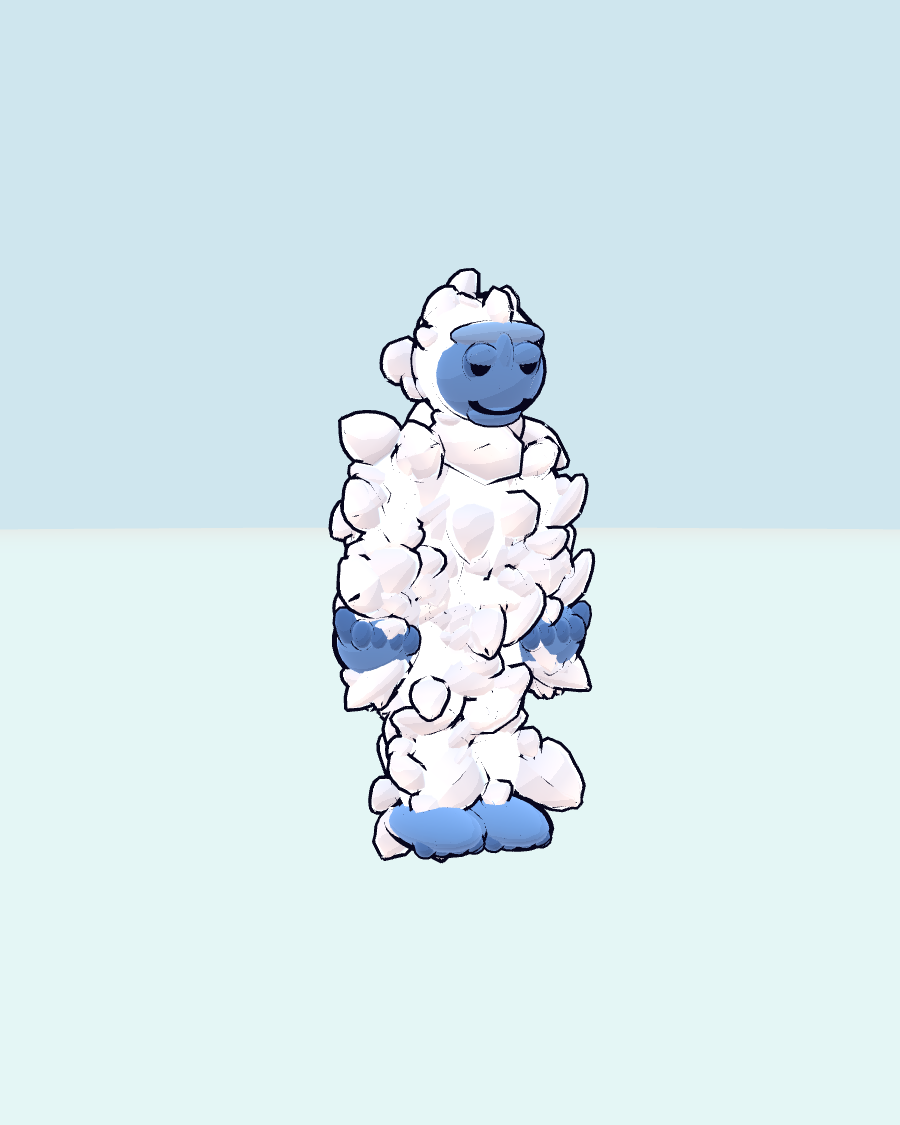
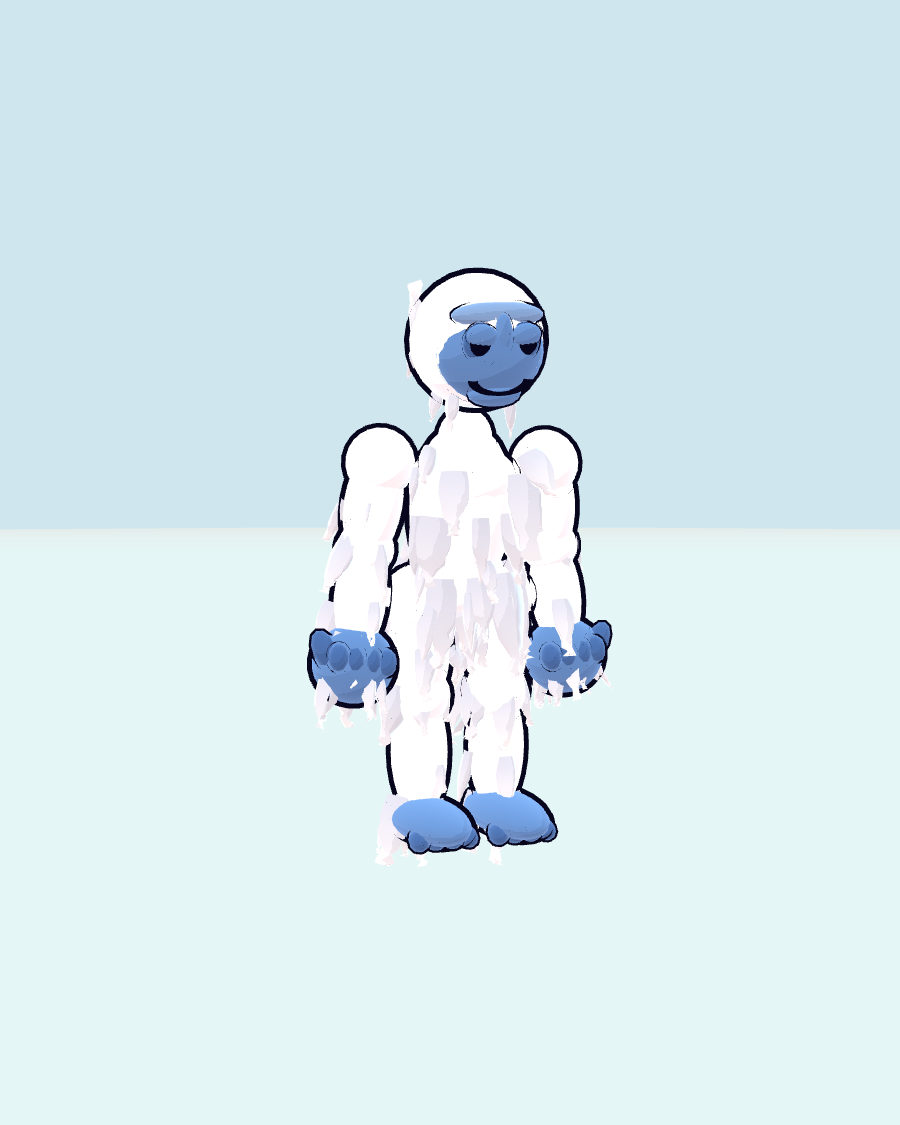
Lofi: thin drooping fur locks over one continuous shell, no per-tuft outlines
- every fur lock is now un-outlined: ink lives on the body shell only, so fur
  reads as hair rather than gravel
- continuous shell (chest, neck, shoulder/elbow/knee joints) with ~80 fringe
  locks: hip skirt, chest mane, shoulder ruff, wrist/ankle cuffs, head crest
- arms lengthened to knee height and stood clear of the torso; legs and feet
  separated; head larger and lifted on a visible neck
- shell tinted off-white so white locks read on top of it; greys pushed into
  undersides and creases only

Changed region(s): [[0.3422, 0.2178, 0.6844, 0.7778]]

diff --git a/src/char_lofi.js b/src/char_lofi.js
@@ -9,24 +9,23 @@ const DEFS = { idle: { loop: true }, run: { loop: true }, dash: { loop: true }, 
 const KF = (...a) => a;
 const SKIN = 0x6c9bdc, SKIN_D = 0x4d76ba, SKIN_L = 0x8fb6ea, FUR_SHADE = 0xc4c9dc, FUR_MID = 0xe0e4f0;
 
-// ---- soft shaggy tuft geometry -------------------------------------------------
-// rounded teardrop: fat rounded base, bulging belly, blunt tapered tip. +Y is the length axis.
-function tuftGeo(len, rad, flat, seed) {
-  const R = rng(seed), N = 7, pts = [];
+// ---- shaggy fur locks ------------------------------------------------
+// a lock: wide at the root, tapering to a fine point, drooping as it falls. +Y is the length axis.
+function lockGeo(len, rad, flat, seed) {
+  const R = rng(seed), N = 8, pts = [];
   for (let i = 0; i <= N; i++) {
     const s = i / N;
-    let r = Math.pow(Math.sin(Math.PI * Math.pow(s, .62)), .62) * (1 - .18 * s);
-    if (s > .8) { const u = (s - .8) / .2; r *= Math.sqrt(Math.max(0, 1 - u * u)); }
-    pts.push(new THREE.Vector2(Math.max(r * rad, .0006), s * len));
+    const r = Math.pow(1 - s, .72) * (.74 + .36 * Math.sin(Math.PI * Math.min(1, s * 1.5)));
+    pts.push(new THREE.Vector2(Math.max(r * rad, .0004), s * len));
   }
-  const g = new THREE.LatheGeometry(pts, 7);
+  const g = new THREE.LatheGeometry(pts, 6);
   g.scale(1, 1, flat);
-  const p = g.attributes.position, c = new Float32Array(p.count * 3), col = new THREE.Color(), L = len;
+  const p = g.attributes.position, c = new Float32Array(p.count * 3), col = new THREE.Color();
   for (let i = 0; i < p.count; i++) {
-    const t = clamp(p.getY(i) / L);
-    p.setY(i, p.getY(i) - t * t * L * .18);
-    p.setX(i, p.getX(i) + t * t * L * (R() - .5) * .1);
-    col.setHex(FUR_SHADE).lerp(new THREE.Color(FUR_MID), smooth(0, .45, t)).lerp(new THREE.Color(0xffffff), smooth(.5, .92, t));
+    const t = clamp(p.getY(i) / len);
+    p.setY(i, p.getY(i) - t * t * len * .32);
+    p.setX(i, p.getX(i) + t * t * len * (R() - .5) * .2);
+    col.setHex(FUR_SHADE).lerp(new THREE.Color(FUR_MID), smooth(0, .45, t)).lerp(new THREE.Color(0xffffff), smooth(.4, .95, t));
     c[i * 3] = col.r; c[i * 3 + 1] = col.g; c[i * 3 + 2] = col.b;
   }
   g.setAttribute('color', new THREE.BufferAttribute(c, 3));
@@ -34,24 +33,21 @@ function tuftGeo(len, rad, flat, seed) {
   return g;
 }
 
-// a shaggy coat of layered tufts over an ellipsoid; returns one merged geometry
-function shag(d, n, len, rad, seed, { down = 1.0, out = 1.15, rows = 5, lenVar = .5, radVar = .3, flat = .6, skip, ring = .97, side = 0, jitter = .28, tone = 1 } = {}) {
-  const R = rng(seed), geos = [], up = new THREE.Vector3(0, 1, 0), q = new THREE.Quaternion(), m = new THREE.Matrix4(), v = new THREE.Vector3();
-  const per = Math.max(3, Math.round(n / rows));
-  for (let r = 0; r < rows; r++) {
-    const el = lerp(1.28, -1.15, rows === 1 ? .5 : r / (rows - 1)), band = 1 - .3 * Math.abs(el) / 1.3;
-    for (let i = 0; i < per; i++) {
-      const az = (i + (r % 2) * .5 + (R() - .5) * jitter) / per * TAU, e = el + (R() - .5) * .26;
-      const p = surf(d, az, e, ring), nr = surfN(d, p);
+// fringe rows of locks around an ellipsoid shell. never outlined: they are fur, not rock.
+function locks(d, rings, len, seed, { out = .5, down = 1.45, flat = .5, thick = .19, skip, tone = 1, lenVar = .42, droopSeed = 0 } = {}) {
+  const R = rng(seed + droopSeed), geos = [], up = new THREE.Vector3(0, 1, 0), q = new THREE.Quaternion(), m = new THREE.Matrix4();
+  for (let ri = 0; ri < rings.length; ri++) {
+    const { el = 0, n = 8, lm = 1 } = rings[ri];
+    for (let i = 0; i < n; i++) {
+      const az = (i + (R() - .5) * .55) / n * TAU, e = el + (R() - .5) * .16;
+      const p = surf(d, az, e, .94), nr = surfN(d, p);
       if (skip && skip(nr, p)) continue;
-      const L = len * band * (1 - lenVar + R() * lenVar * 2), W = rad * (1 - radVar + R() * radVar * 2);
-      const dir = nr.clone().multiplyScalar(out * (1 + (R() - .35) * .5)).add(new THREE.Vector3(0, -down, 0)).add(new THREE.Vector3((R() - .5) * .35, 0, (R() - .5) * .35)).normalize();
-      const g = tuftGeo(L, W, flat + (R() - .5) * .12, seed * 131 + r * 17 + i);
-      // shade: grey on the flanks and undersides, white on top and on the back ridge
-      const flank = Math.abs(nr.x), low = Math.max(0, -nr.y);
-      const k = clamp((flank * .3 + low * .4 + side * .5) * .8) * tone;
+      const L = len * lm * (1 - lenVar + R() * lenVar * 2), W = L * thick * (1 + (R() - .5) * .35);
+      const dir = nr.clone().multiplyScalar(out * (1 + (R() - .4) * .6)).add(new THREE.Vector3(0, -down, 0)).add(new THREE.Vector3((R() - .5) * .3, 0, (R() - .5) * .3)).normalize();
+      const g = lockGeo(L, W, flat + (R() - .5) * .1, seed * 131 + ri * 17 + i);
+      const k = clamp(.1 + .55 * Math.max(0, -nr.y) + .38 * Math.abs(nr.x)) * tone;
       const col = g.attributes.color, tmp = new THREE.Color();
-      for (let vi = 0; vi < col.count; vi++) { tmp.fromBufferAttribute(col, vi).lerp(new THREE.Color(FUR_SHADE), k * .55); col.setXYZ(vi, tmp.r, tmp.g, tmp.b); }
+      for (let vi = 0; vi < col.count; vi++) { tmp.fromBufferAttribute(col, vi).lerp(new THREE.Color(FUR_SHADE), k * .7); col.setXYZ(vi, tmp.r, tmp.g, tmp.b); }
       q.setFromUnitVectors(up, dir).multiply(new THREE.Quaternion().setFromAxisAngle(up, R() * TAU));
       m.compose(p, q, new THREE.Vector3(1, 1, 1));
       g.applyMatrix4(m);
@@ -92,59 +88,64 @@ const death = u => seq({
 const base = { 'armL.rz': .12, 'armR.rz': -.12, 'elbL.rx': -.16, 'elbR.rx': -.16, 'armL.rx': 0, 'torso.rx': .07, 'head.rx': .05, 'mouth.smile': -.45 };
 
 export function makeLofi() {
-  const furC = toon(0xffffff, { emissive: 0xeff2fc, emissiveIntensity: .55 }); addRim(furC, 0x8ae6ff, 2.4, .55);
+  const furC = toon(0xf4f5fb, { emissive: 0xe8ebf6, emissiveIntensity: .45 }); addRim(furC, 0x8ae6ff, 2.6, .5);
   const skin = toon(SKIN, { emissive: 0x2c4f94, emissiveIntensity: .22 }); addRim(skin, 0x9cc4ff, 2.4, .4);
   const skinM = toon(SKIN_D, { emissive: 0x24406f, emissiveIntensity: .2 }), skinL = toon(SKIN_L, { emissive: 0x40649f, emissiveIntensity: .2 });
   const tuftM = furMat(); tuftM.polygonOffset = true; tuftM.polygonOffsetFactor = 1.5; tuftM.polygonOffsetUnits = 1.5; tuftM.emissive.set(0xe6e9f6); tuftM.emissiveIntensity = .34;
 
   const { root: body, j, parts } = humanoid({
-    hipsY: .94, pelvis: [.185, .15, .155], pelvisY: .05, torsoY: .02, torso: { dims: [.20, .315, .165], cy: .29 },
-    head: { y: .585, z: .085, cy: .285, dims: [.225, .22, .20] },
-    arm: { x: .245, y: .50, upper: [.115, .31], fore: [.10, .28], hand: [.145, .135, .13] },
-    leg: { x: .135, thigh: [.125, .38], shin: [.115, .40], foot: [.15, .075, .30] }, mat: furC, skin, th: .018,
+    hipsY: .94, pelvis: [.185, .155, .16], pelvisY: .05, torsoY: .02, torso: { dims: [.195, .315, .16], cy: .29 },
+    head: { y: .63, z: .075, cy: .27, dims: [.245, .235, .215] },
+    arm: { x: .315, y: .485, upper: [.105, .35], fore: [.095, .33], hand: [.15, .14, .135] },
+    leg: { x: .155, thigh: [.118, .38], shin: [.105, .40], foot: [.128, .075, .29] }, mat: furC, skin, th: .018,
   });
   const root = new THREE.Group(), rig = new THREE.Group(); root.add(rig); rig.add(body);
   body.rotation.x = .035;
 
-  // ---------------- fur coat ----------------
+  // ---------------- body shell: one soft continuous mass ----------------
+  // extra masses that fill the joints so the silhouette never breaks into parts
+  const shell = (host, d, x = 0, y = 0, z = 0, mat = furC) => { const m = blob(...d, mat, .016, 16); m.position.set(x, y, z); host.add(m); return m; };
+  shell(j.torso, [.205, .135, .165], 0, .40);         // chest / shoulders
+  shell(j.torso, [.10, .11, .095], 0, .545);         // neck
+  for (const n of ['L', 'R']) {
+    const s = n === 'L' ? 1 : -1;
+    shell(j['arm' + n], [.125, .125, .125], 0, -.03);  // shoulder cap
+    shell(j['elb' + n], [.105, .10, .10], 0, .01);     // elbow
+    shell(j['knee' + n], [.118, .115, .115], 0, .01);  // knee
+    shell(j['leg' + n], [.135, .13, .13], 0, -.02);    // hip
+  }
+
+  // ---------------- fur: fringe rows of drooping locks ----------------
   const fur = [];
-  const coat = (host, d, n, len, rad, seed, o) => {
-    const m = new THREE.Mesh(shag(d, n, len, rad, seed, o), tuftM);
-    outline(m, .012, PALETTE.ink); host.add(m); return m;
-  };
-  // two layers: big soft clumps for the shape, a finer coat on top for shag texture
-  const mane = (host, d, n, len, seed, o = {}) => {
-    const big = shag(d, n, len, len * .52, seed, { rows: 3, out: 1.25, down: 1.05, lenVar: .55, ring: .92, ...o });
-    const fine = shag(d.map(v => v * 1.03), Math.round(n * 1.7), len * .58, len * .3, seed + 7, { rows: 4, out: .9, down: 1.35, lenVar: .5, ring: .98, side: (o.side || 0) * .6, tone: 1.9, skip: o.skip });
-    const m = new THREE.Mesh(mergeGeometries([big, fine]), tuftM);
-    outline(m, .012, PALETTE.ink); host.add(m); return m;
-  };
   const sway = (g, k, ph) => { fur.push({ g, k, ph, a: 0, av: 0, b: 0, bv: 0 }); return g; };
   const D = p => p.userData.dims, S = (p, k = 1.02) => D(p).map(v => v * k);
+  const coat = (host, d, rings, len, seed, o) => { const m = new THREE.Mesh(locks(d, rings, len, seed, o), tuftM); host.add(m); return m; };
 
-  mane(parts.torso, S(parts.torso), 13, .30, 1, { side: .16, skip: nr => nr.z > .6 && Math.abs(nr.x) < .55 && nr.y < .5 });
-  mane(parts.pelvis, S(parts.pelvis), 10, .30, 2, { side: .18 });
-  mane(parts.head, S(parts.head, 1.0), 13, .21, 3, { out: 1.0, side: .08, skip: nr => nr.z > .3 && Math.abs(nr.x) < .92 && nr.y < .8 });
+  coat(parts.torso, S(parts.torso), [{ el: -1.05, n: 10, lm: 1.15 }, { el: -.45, n: 6 }, { el: .2, n: 5, lm: .8 }], .30, 1,
+    { out: .45, skip: nr => (nr.z > .75 && Math.abs(nr.x) < .5 && nr.y > -.4) || (Math.abs(nr.x) > .72 && nr.y > -.3) });
+  coat(parts.pelvis, S(parts.pelvis), [{ el: -1.0, n: 10, lm: 1.2 }, { el: -.35, n: 7 }], .32, 2, { out: .5 });
+  coat(parts.head, S(parts.head, 1.0), [{ el: -.9, n: 6, lm: 1.1 }, { el: -.2, n: 6, lm: .9 }], .17, 3,
+    { out: .45, skip: nr => nr.z > .45 && Math.abs(nr.x) < .9 && nr.y < .5 });
   for (const n of ['L', 'R']) {
     const s = n === 'L' ? 0 : 60;
-    mane(parts['upper' + n], S(parts['upper' + n]), 7, .26, 4 + s, { side: .1 });
-    mane(parts['fore' + n], S(parts['fore' + n]), 6, .24, 5 + s, { down: 1.2, side: .1 });
-    mane(parts['thigh' + n], S(parts['thigh' + n]), 8, .27, 6 + s, { side: .12 });
-    mane(parts['shin' + n], S(parts['shin' + n]), 7, .25, 7 + s, { down: 1.2, side: .12 });
-    // wrist + ankle cuffs, hanging outward, soft secondary motion
-    const wr = sway(grp(j['elb' + n], 0, -.40, 0), 1.1, s + 3), an = sway(grp(j['knee' + n], 0, -.46, 0), .8, s + 5);
-    coat(wr, [.105, .05, .095], 9, .16, .06, 44 + s, { rows: 2, down: 2.4, out: .5, ring: 1.0 });
-    coat(an, [.115, .05, .10], 9, .15, .06, 54 + s, { rows: 2, down: 2.6, out: .45, ring: 1.0, skip: nr => nr.y < -.55 });
+    coat(parts['upper' + n], S(parts['upper' + n]), [{ el: -.75, n: 4, lm: 1.1 }, { el: 0, n: 3, lm: .85 }], .24, 4 + s, { out: .5, skip: nr => nr.x * (n === 'L' ? 1 : -1) < -.35 });
+    coat(parts['fore' + n], S(parts['fore' + n]), [{ el: -.8, n: 5, lm: 1.15 }, { el: -.1, n: 3 }], .22, 5 + s, { out: .45, down: 1.7, skip: nr => nr.x * (n === 'L' ? 1 : -1) < -.35 });
+    coat(parts['thigh' + n], S(parts['thigh' + n]), [{ el: -.75, n: 5, lm: 1.1 }, { el: 0, n: 4, lm: .85 }], .26, 6 + s, { out: .5 });
+    coat(parts['shin' + n], S(parts['shin' + n]), [{ el: -.8, n: 5, lm: 1.1 }, { el: -.1, n: 3 }], .24, 7 + s, { out: .45, down: 1.7 });
+    // wrist + ankle cuffs hang and swing
+    const wr = sway(grp(j['elb' + n], 0, -.42, 0), 1.1, s + 3), an = sway(grp(j['knee' + n], 0, -.46, 0), .8, s + 5);
+    coat(wr, [.105, .05, .095], [{ el: -.35, n: 6, lm: 1.1 }, { el: .5, n: 4 }], .19, 44 + s, { out: .75, down: 1.9 });
+    coat(an, [.115, .05, .10], [{ el: -.35, n: 6, lm: 1.1 }, { el: .5, n: 4 }], .18, 54 + s, { out: .7, down: 2.0, skip: nr => nr.y < -.5 });
   }
-  // bushy skirt of fur at the hips + chest mane, big shoulder ruff
+  // hip skirt, chest mane, big shoulder ruff, head crest
   const skirt = sway(grp(j.hips, 0, .10, 0), .7, 3);
-  coat(skirt, [.21, .07, .19], 11, .34, .11, 70, { rows: 2, down: 3, out: .5, ring: 1.0, skip: nr => nr.y > .35 });
-  const chest = sway(grp(j.torso, 0, .30, 0), .6, 4);
-  coat(chest, [.22, .08, .19], 10, .30, .105, 71, { rows: 2, down: 3, out: .5, ring: 1.0, skip: nr => nr.y > .4 });
-  const ruff = sway(grp(j.torso, 0, .46, 0), 1.0, 6);
-  coat(ruff, [.30, .10, .27], 18, .32, .115, 73, { rows: 3, down: 2.2, out: .85, ring: 1.0, skip: nr => nr.z > .6 && Math.abs(nr.x) < .5 });
-  const crest = sway(grp(j.head, 0, .205, -.02), 1.5, 5);
-  coat(crest, [.19, .07, .16], 10, .22, .07, 72, { rows: 2, down: -.5, out: .35, ring: 1.0, skip: nr => nr.y < .1 });
+  coat(skirt, [.21, .08, .19], [{ el: -.4, n: 11, lm: 1.2 }, { el: .3, n: 6, lm: .8 }], .34, 70, { out: .6, down: 1.9 });
+  const chest = sway(grp(j.torso, 0, .32, 0), .6, 4);
+  coat(chest, [.23, .09, .19], [{ el: -.45, n: 9, lm: 1.1 }], .30, 71, { out: .55, down: 1.9, skip: nr => nr.z < -.4 });
+  const ruff = sway(grp(j.torso, 0, .48, 0), 1.0, 6);
+  coat(ruff, [.29, .11, .25], [{ el: -.35, n: 12, lm: 1.15 }, { el: .35, n: 8, lm: .85 }], .30, 73, { out: .85, down: 1.5, skip: nr => nr.z > .7 && Math.abs(nr.x) < .45 });
+  const crest = sway(grp(j.head, 0, .215, -.03), 1.5, 5);
+  coat(crest, [.20, .075, .17], [{ el: .35, n: 7, lm: 1.1 }, { el: .9, n: 5, lm: .8 }], .26, 72, { out: .5, down: -.55, skip: nr => nr.y < .1 || (nr.z > .6 && nr.y < .5) });
 
   // ---------------- hands, feet ----------------
   const ink = new THREE.MeshBasicMaterial({ color: PALETTE.ink }), white = new THREE.MeshBasicMaterial({ color: 0xffffff });
